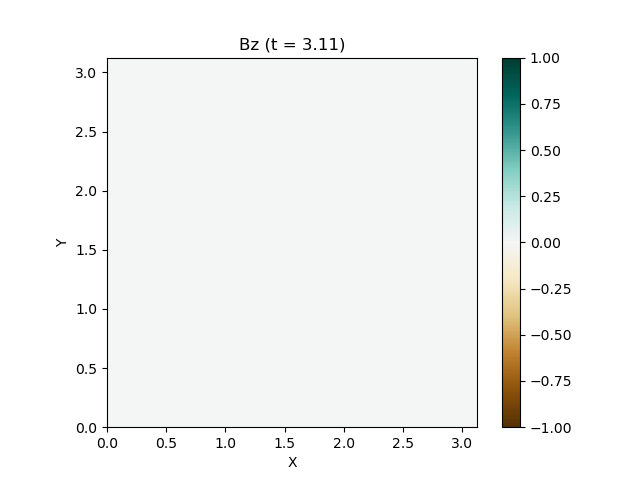
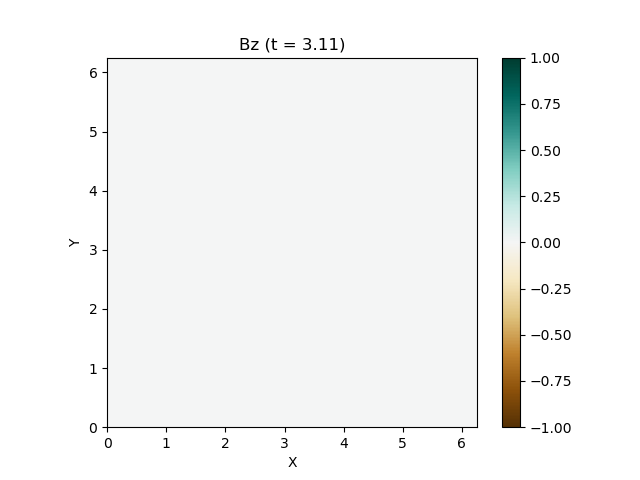
プロットのバグ修正

diff --git a/Orszag-Tang_vortex/src/plot_img.py b/Orszag-Tang_vortex/src/plot_img.py
@@ -3,14 +3,14 @@ import matplotlib.pyplot as plt
 import numpy as np
 
 XN = 200; YN = 200; TN = 100; VN = 9
-xl = np.pi; yl = np.pi; tl = np.pi
+xl = 2.0*np.pi; yl = 2.0*np.pi; tl = np.pi
 dx = xl/XN; dy = yl/YN; dt = tl/TN
 x = np.arange(0.0, xl, dx); y = np.arange(0.0, yl, dy); t = np.arange(0.0, tl, dt)
 fig = plt.figure()
 var = ["r", "p", "u", "v", "w", "bx", "by", "bz", "ps"]
 title = ["ρ", "p", "u", "v", "w", "Bx", "By", "Bz", "ψ"]
-maxs = [8.0, 10.0,  1.5,  1.5,  1.0,  3.0,  2.5,  1.0,  0.2]
-mins = [0.0,  0.0, -1.5, -1.5, -1.0, -3.0, -2.5, -1.0, -0.2]
+maxs = [6.5, 6.5,  1.5,  1.0,  1.0,  3.0,  2.5,  1.0,  0.2]
+mins = [1.0, 0.0, -1.5, -1.0, -1.0, -3.0, -2.5, -1.0, -0.2]
 cols = [cm.jet, cm.jet, cm.BrBG, cm.BrBG, cm.BrBG,
         cm.BrBG, cm.BrBG, cm.BrBG, cm.BrBG]
 for i in range(VN):

diff --git a/Orszag-Tang_vortex/src/main.py b/Orszag-Tang_vortex/src/main.py
@@ -497,11 +497,11 @@ def main():
     # 結果をプロット
     fig = plt.figure()
     plt.axes().set_aspect("equal")
-    plt.title("p")
+    plt.title("p (t = {0:.2f})".format(t))
     plt.xlabel("X")
     plt.ylabel("Y")
     im = plt.pcolor(x, y, p.T, cmap = cm.jet, shading = "auto")
-    im.set_clim(0.0, 8.0)
+    im.set_clim(0.0, 6.5)
     fig.colorbar(im)
     plt.show()
 

diff --git a/Orszag-Tang_vortex/src/plot_mov.py b/Orszag-Tang_vortex/src/plot_mov.py
@@ -4,7 +4,7 @@ import matplotlib.pyplot as plt
 import numpy as np
 
 XN = 200; YN = 200; TN = 100; VN = 9
-xl = np.pi; yl = np.pi; tl = np.pi
+xl = 2.0*np.pi; yl = 2.0*np.pi; tl = np.pi
 dx = xl/XN; dy = yl/YN; dt = tl/TN
 x = np.arange(0.0, xl, dx); y = np.arange(0.0, yl, dy); t = np.arange(0.0, tl, dt)
 fig = plt.figure()
